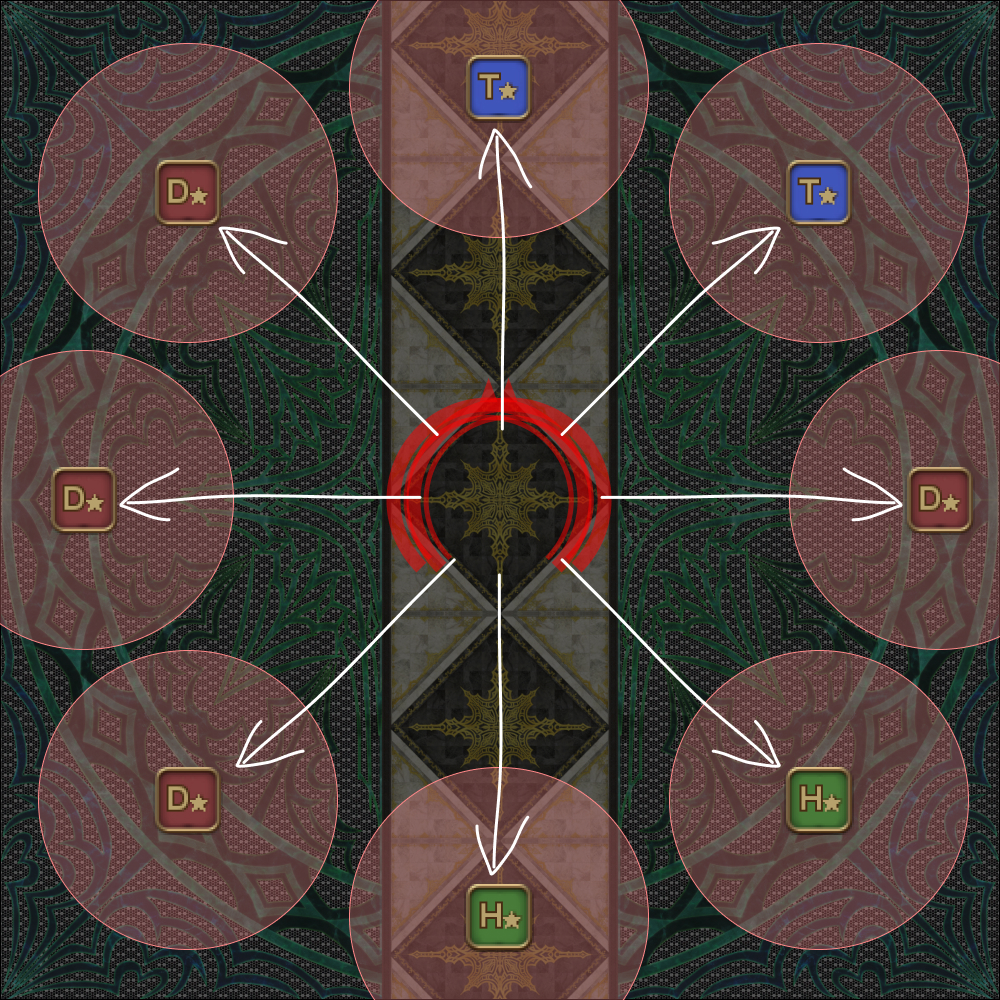
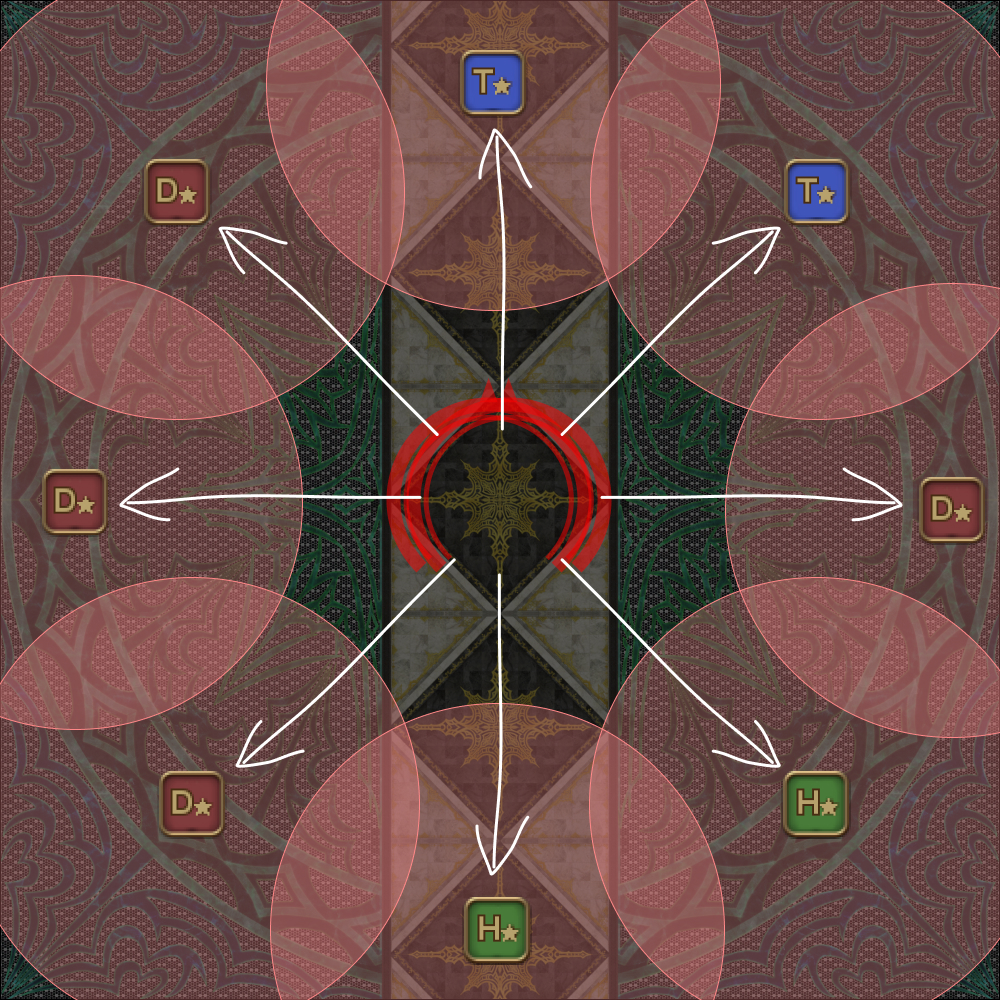
Correct Heavensflame AoE size

diff --git a/ultimates/dsr/05_alternate_thordan.en.md b/ultimates/dsr/05_alternate_thordan.en.md
@@ -307,6 +307,7 @@ next phase.
   <td><img src="{{site.baseurl}}/assets/images/ultimates/dsr/05/doth_debuffs.jpg"></td></tr>
 </table>
 </details>
+
 <details markdown=block>
 <summary>
   <b>[Death of the Heavens]</b> Is there a particular reason why Dooms go North
@@ -324,6 +325,7 @@ next phase.
   </tr>
 </table>
 </details>
+
 <details markdown=block>
 <summary>
   <b>[Meteors]</b> Why caster LB2 instead of ranged LB2?
@@ -337,6 +339,7 @@ next phase.
   </tr>
 </table>
 </details>
+
 <details markdown=block>
 <summary>
   <b>[Thordan]</b> What happens if you kill Thordan in this phase?
@@ -362,6 +365,27 @@ next phase.
       </blockquote>
       <script async src="https://platform.twitter.com/widgets.js" charset="utf-8"></script>
     </td>
+  </tr>
+</table>
+</details>
+
+---
+
+## Troubleshooting
+
+<details markdown=block>
+<summary>
+  <b>[Death of the Heavens]</b> How did two players clip their <em>Heavensflame</em> AoE despite getting knocked back correctly?
+</summary>
+<table>
+  <tr>
+    <td>
+      <p>They were simply too close to each other.</p>
+      <p><em>Heavensflame</em> damage radius is 10 yalms, which is 
+      <em>larger</em> than the visual effects suggest.</p>
+      <p>The AoE size on the diagram is accurate.</p>
+    </td>
+    <td><img src="{{site.baseurl}}/assets/images/ultimates/dsr/05/death_of_the_heavens_08.jpg"></td>
   </tr>
 </table>
 </details>
